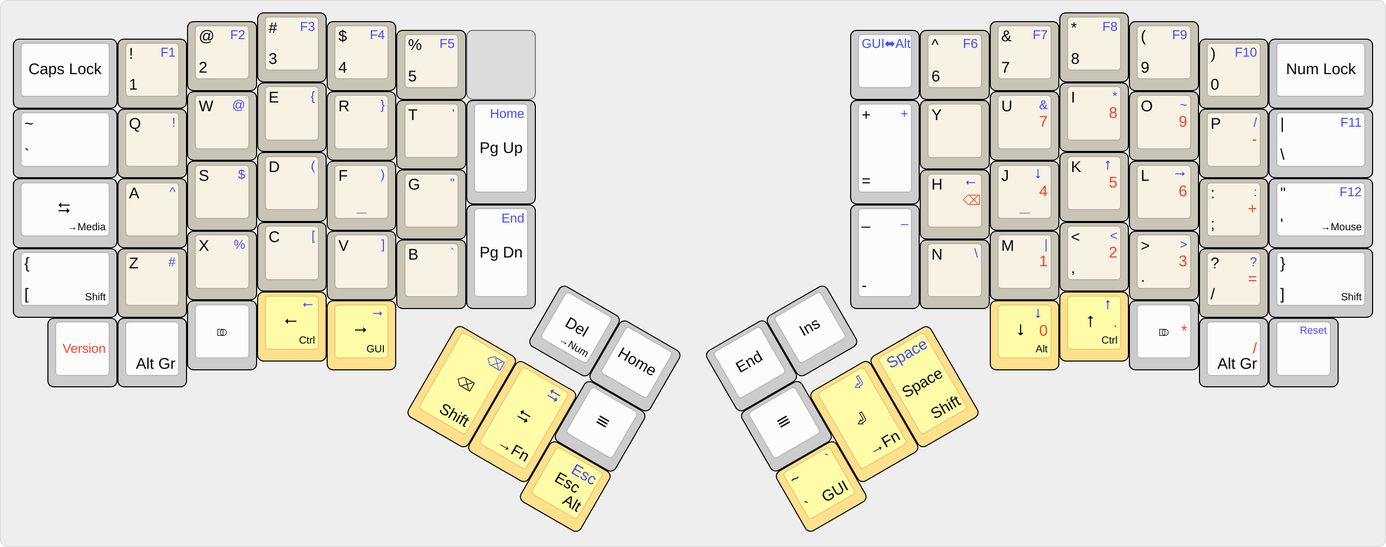
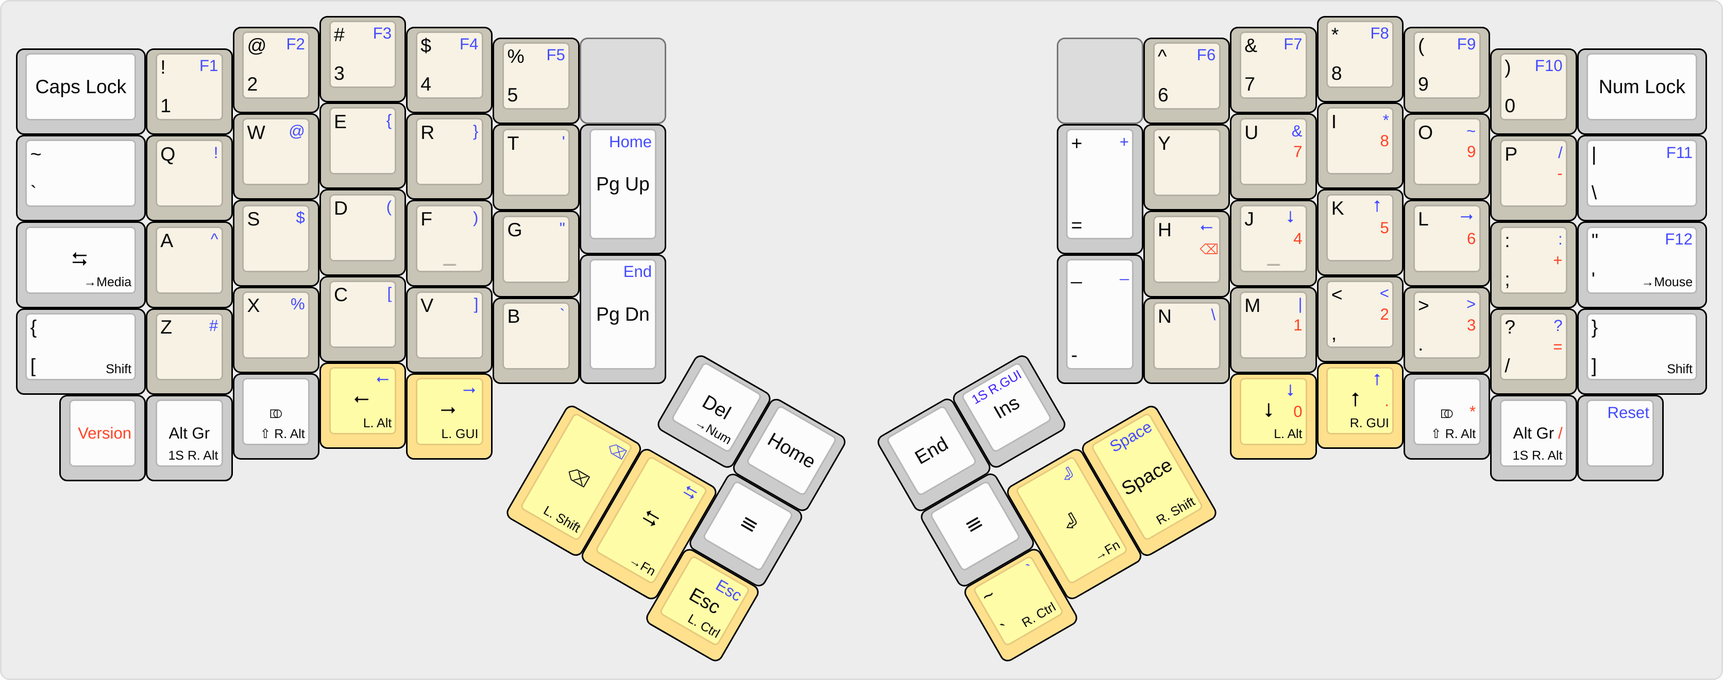
Address RGUI+Enter

diff --git a/keymaps/moonlander/shajra/keymap.c b/keymaps/moonlander/shajra/keymap.c
@@ -46,7 +46,7 @@ const uint16_t PROGMEM keymaps[][MATRIX_ROWS][MATRIX_COLS] =
     , RGB_VAD, KC_EXLM, KC_AT,   KC_LCBR, KC_RCBR, KC_QUOT, KC_HOME, /**/ KC_PLUS, _______, KC_AMPR, KC_ASTR, KC_TILD, KC_SLSH, KC_F11
     , RGB_HUI, KC_CIRC, KC_DLR,  KC_LPRN, KC_RPRN, KC_DQUO, KC_END,  /**/ KC_UNDS, KC_LEFT, KC_DOWN, KC_UP,   KC_RGHT, KC_COLN, KC_F12
     , RGB_HUD, KC_HASH, KC_PERC, KC_LBRC, KC_RBRC, KC_GRV,           /**/          KC_BSLS, KC_PIPE, KC_LT,   KC_GT,   KC_QUES, _______
-    , _______, _______, _______, KC_LEFT, KC_RGHT,          KC_DEL,  /**/ _______,          KC_DOWN, KC_UP,   _______, _______, QK_BOOT
+    , _______, _______, _______, KC_LEFT, KC_RGHT,          KC_DEL,  /**/ OSM(MOD_RGUI),    KC_DOWN, KC_UP,   _______, _______, QK_BOOT
     ,                                     KC_BSPC, KC_TAB,  KC_ESC,  /**/ KC_GRV,  KC_ENT,  KC_SPC
     )
 , [NUMPAD] = LAYOUT_moonlander

diff --git a/keymaps/ergodox_ez/shajra/keymap.c b/keymaps/ergodox_ez/shajra/keymap.c
@@ -81,7 +81,7 @@ const uint16_t PROGMEM keymaps[][MATRIX_ROWS][MATRIX_COLS] =
     ,          KC_LEFT, KC_DOWN, KC_UP,   KC_RGHT, KC_COLN, KC_F12
     , KC_UNDS, KC_BSLS, KC_PIPE, KC_LT,   KC_GT,   KC_QUES, _______
     ,                   KC_DOWN, KC_UP,   _______, _______, QK_BOOT
-    , _______, _______
+    , _______, OSM(MOD_RGUI)
     , _______
     , KC_GRV,  KC_ENT,  KC_SPC
     )

diff --git a/keymaps/moonlander/shajra/config.h b/keymaps/moonlander/shajra/config.h
@@ -1,5 +1,5 @@
 #define MOONLANDER_USER_LEDS
 #define ORYX_CONFIGURATOR
 #define PERMISSIVE_HOLD
-#define QUICK_TAP_TERM 120
+#define QUICK_TAP_TERM 0
 #define RGBLIGHT_SLEEP

diff --git a/keymaps/ergodox_ez/shajra/config.h b/keymaps/ergodox_ez/shajra/config.h
@@ -1,3 +1,3 @@
 #define ORYX_CONFIGURATOR
 #define PERMISSIVE_HOLD
-#define QUICK_TAP_TERM 120
+#define QUICK_TAP_TERM 0

diff --git a/doc/design.md b/doc/design.md
@@ -1,8 +1,8 @@
 - [Designing a keyboard mapping](#sec-1)
 - [Principles and assumptions](#principles_and_assumptions)
 - [The keymaps](#sec-3)
-  - [Model 01/100 "shajra" keymap](#sec-3-1)
-  - [Ergodox EZ "shajra" keymap](#sec-3-2)
+  - [Model 01/100 “shajra” keymap](#sec-3-1)
+  - [Ergodox EZ “shajra” keymap](#sec-3-2)
   - [Reading the keymap diagrams](#sec-3-3)
     - [Coloring](#sec-3-3-1)
     - [Modifiers](#sec-3-3-2)
@@ -14,20 +14,21 @@
   - [Working around a problem with Mod-Tap and Qukeys](#sec-5-4)
   - [Mapping modifiers](#sec-5-5)
   - [More on `Alt Gr` and `Compose`](#altgr_and_compose)
-  - [Mapping more non-modifiers](#sec-5-7)
-  - [Mapping the Function layer](#sec-5-8)
-  - [Media and Mouse layers](#sec-5-9)
+  - [A problem with `GUI` on Macs](#osm_right_gui)
+  - [Mapping remaining non-modifiers](#sec-5-8)
+  - [Mapping the Function layer](#sec-5-9)
+  - [Media and Mouse layers](#sec-5-10)
 
 
 # Designing a keyboard mapping<a id="sec-1"></a>
 
-This document discusses the rationale of the "shajra" keymap for the Ergodox EZ, Moonlander, and Model 01/100 keyboards.
+This document discusses the rationale of the “shajra” keymap for the Ergodox EZ, Moonlander, and Model 01/100 keyboards.
 
 Having a nice ergonomic split keyboard seems a waste, only to program it with a keymap full of ergonomic setbacks. The number of possible mappings can be overwhelming. We could just choose something, good or bad, and iterate on it as we discover improvements. This process can be tedious because we have to train through the inconvenience of muscle memory to assess how well a mapping works. We get used to a key being in a poor place. So, we must be diligent not to confuse familiarity with ergonomic improvement.
 
-To help deal with this problem, the "shajra" keymap is built upon a few guiding principles and constraints. Ideally, these principles and constraints would hone in on precisely one solution. Unfortunately, reality is not tidy, though the options narrow down some.
+To help deal with this problem, the “shajra” keymap is built upon a few guiding principles and constraints. Ideally, these principles and constraints would hone in on precisely one solution. Unfortunately, reality is not tidy, though the options narrow down some.
 
-Keyboard customization is personal, so it's common to end up with your own keymap. Maybe the "shajra" keymap can work for you, possibly with a few tweaks.
+Keyboard customization is personal, so it's common to end up with your own keymap. Maybe the “shajra” keymap can work for you, possibly with a few tweaks.
 
 # Principles and assumptions<a id="principles_and_assumptions"></a>
 
@@ -51,13 +52,13 @@ Additionally, there are a few physical assumptions that factor into some decisio
 
 # The keymaps<a id="sec-3"></a>
 
-For reference, below are diagrams of the keymaps for the Model 01/100 and Ergodox EZ.
+For reference, below are diagrams of the “shajra” keymaps for the Model 01/100 and Ergodox EZ.
 
-## Model 01/100 "shajra" keymap<a id="sec-3-1"></a>
+## Model 01/100 “shajra” keymap<a id="sec-3-1"></a>
 
 ![img](./model-100-shajra-layout.png)
 
-## Ergodox EZ "shajra" keymap<a id="sec-3-2"></a>
+## Ergodox EZ “shajra” keymap<a id="sec-3-2"></a>
 
 ![img](./ergodox-ez-shajra-layout.png)
 
@@ -75,13 +76,22 @@ Note the Moonlander keyboard is an almost identical layout to the EZ and not ill
 
 ### Modifiers<a id="sec-3-3-2"></a>
 
--   The lower-right corner label on some keys shows the modifier accessed by holding it (other labels reference keycodes accessed by tapping).
--   The “Shift,” “Ctrl,” and “GUI” labels represent “Left” or “Right” keycodes, respective to which keyboard half they are on.
--   For both halves, the keycode represented by the “Alt” label is for only the `Left Alt` keycode.
--   The following labels represent keycodes used for entering characters beyond a typical US/English keyboard:
+Various platforms have diverged in the names and purpose of their modifier keys. A useful simplification, the USB HID tables, force these divergences to converge with modern USB-based keyboards:
+
+| USB HID key | Non-Mac key | Mac key     |
+|----------- |----------- |----------- |
+| `GUI`       | `⊞ Windows` | `⌘ Command` |
+| `Alt`       | `⎇ Alt`     | `⌥ Option`  |
+| `Control`   | `^ Control` | `^ Control` |
+| `Shift`     | `⇧ Shift`   | `⇧ Shift`   |
+
+The keymaps use the USB HID terminology. On the images, the lower-right corner label on some keys shows the modifier accessed by holding it (other labels reference keycodes accessed by tapping).
+
+In addition to standard modifiers, there are a few extra supported by firmware:
+
 -   The “Alt Gr” label represents a [`Alt Graph` modifier](https://en.wikipedia.org/wiki/AltGr_key), which we emulate with the `Right Alt` keycode.
 -   The “⎄” label represents a [`Compose` key](https://en.wikipedia.org/wiki/Compose_key), which we emulate with `Shift + Right Alt`.
--   The Media and Mouse layers are not shown in these diagrams to avoid clutter.
+-   There are “media” and “mouse” layers that are not shown in these diagrams to avoid clutter.
 
 Note that we've given some special treatment to the right and left `Alt` keycodes. This is explained more [later](#altgr_and_compose).
 
@@ -101,7 +111,7 @@ To further reduce binding, the 2u keycaps of the thumb cluster can be replaced w
 
 If your Ergodox EZ shipped with DSA (unsculptured) keycaps, you may find you can conveniently press all the yellow keys in the keymap diagram with your thumbs.
 
-If your Ergodox shipped with DCS (sculptured) keycaps, you will likely find the four bottom row keys (mentioned earlier) sculptured too sharply for comfortable thumb presses. Replacing these keycaps is recommended to use the "shajra" keymap.
+If your Ergodox shipped with DCS (sculptured) keycaps, you will likely find the four bottom row keys (mentioned earlier) sculptured too sharply for comfortable thumb presses. Replacing these keycaps is recommended to use the “shajra” keymap.
 
 [Signature Plastics](https://pimpmykeyboard.com/key-cap-family-specs) is a popular place to get alternate keycaps. If you do get keycaps from a third party like Signature Plastics, consider the G20 keycaps, which work well for thumb presses because of their low profile and rounded edges.
 
@@ -135,9 +145,9 @@ Thus far, we've presumed that modifiers need to be oriented such that we can cho
 
 Unfortunately, One-Shot is incompatible with Mod-Tap/Qukeys, which we've reasoned above will help us get more keycodes closer to our thumb/palm home keys.
 
-This incompatibility introduces a design tension. Some would argue that chording increases the likelihood of repetitive stress injury. Traditional keyboards put a lot of the stress on pinky fingers by having them hold keys while stretching from their home position. A One-Shot approach removes the need to hold the keys but may not necessarily move the key to a better location. The pinky finger may still need to stretch for the key press.
+This incompatibility introduces a design tension. Some would argue that chording increases the likelihood of repetitive stress injury. Traditional keyboards put a lot of the stress on pinky fingers by having them hold keys while stretching from their home position. A One-Shot approach removes the need to hold the keys but may not necessarily move the key to a better location. The pinky finger may still need to stretch for the keypress.
 
-Instead, the "shajra" keymap uses Mod-Tap/Qukeys to reduce the need to hold and even stretch our pinkies to farther keys. It does this not only for modifiers (like `Shift` and `Ctrl`), but also common keycodes (like `Tab`, `Esc`, `Enter`, and `Backspace`). The key-sharing of Mod-Tap/Qukeys allows us to map all of these to our thumbs/palms. With One-Shot, without keycodes sharing keys, we will invariably have some of these commonly used keycodes spill into the outer keys stretched to by our pinkies. With Mod-Tap/Qukeys, we generally shouldn't find our pinkies having to reach beyond the beige keys in our diagrams.
+Instead, the “shajra” keymap uses Mod-Tap/Qukeys to reduce the need to hold and even stretch our pinkies to farther keys. It does this not only for modifiers (like `Shift` and `Ctrl`), but also common keycodes (like `Tab`, `Esc`, `Enter`, and `Backspace`). The key-sharing of Mod-Tap/Qukeys allows us to map all of these to our thumbs/palms. With One-Shot, without keycodes sharing keys, we will invariably have some of these commonly used keycodes spill into the outer keys stretched to by our pinkies. With Mod-Tap/Qukeys, we generally shouldn't find our pinkies having to reach beyond the beige keys in our diagrams.
 
 For these reasons, we'll mostly avoid One-Shot, and prefer Mod-Tap/Qukeys instead.
 
@@ -149,7 +159,7 @@ QMK has a feature where you can tap a Mod-Tap key quickly before holding it to h
 
 Fortunately, there's a workaround. We can use the Function layer to overlay on top of any keycode that can't repeat the same keycode for repeating. So, in our example, if we collocated `Space` and `Shift` in the same key with Mod-Tap/Qukey, but used our workaround, we could chord and hold `Function+Space` to get a repeating space. This workaround seems manageable for the few common keys we have collocated with modifiers using Mod-Tap/Qukeys.
 
-The "shajra" keymap uses this workaround, and you can see it used for the thumb keys in the keymap diagrams above.
+The “shajra” keymap uses this workaround, and you can see it used for the thumb keys in the keymap diagrams above.
 
 ## Mapping modifiers<a id="sec-5-5"></a>
 
@@ -168,19 +178,19 @@ The modifiers below have been ordered from most frequently used to least:
 
 Though the order above is subjective to a degree, the `Shift` and `Function` modifiers are more obviously used the most. We'll want these modifiers near our thumb home keys so that we stay in one position as much as possible when typing prose.
 
-Note that we'll want each modifier on both the left and right keyboard halves. We get a more comfortable reach with the fingers of one hand when using the thumb of the other hand for a modifier. And we want to be able to modify keys on either half with similar ease.
+Ideally, we want each modifier on both the left and right keyboard halves. We get a more comfortable reach with the fingers of one hand when using the thumb of the other hand for a modifier. And we want to be able to modify keys on either half with similar ease. We mostly get modifiers on both halves, which will be discussed more in a [later section](#osm_right_gui).
 
-Furthermore, we sometimes need two modifiers for chording and must use both hands. If the two modifiers we needed were on the same split, we'd be out of luck with only one thumb per hand.
+Modifiers on both left and right halves allow us to chord more modifier combinations. If the two modifiers we needed were on the same split, we'd be out of luck with only one thumb per hand.
 
-Three-modifier chording does happen, but we only support such chords where one of the three modifiers is a `Shift`. For this reason, we have `Shift` modifiers on both thumb keys as well as their traditional outer keys. Thumbs of each hand would press the other two modifiers, while one of the pinkies presses a `Shift`.
+Modifiers on both sides also allow occasional one-handed chording if our other hand is off the keyboard. To further support one-handed chording, we want the `Ctrl`, `Alt`, and `GUI` keys pressed by thumbs. Note that when pressing one of the yellow keys with our thumbs, all fingers can press a key. If we use a pinky finger for a modifier, other keys typically depressed by the pinky are less available for a one-handed chord. The same is true for any of our fingers. When we use our thumbs for modifiers, more chords are ergonomically available for one-handed chording in a home position.
 
-There are a few other chords not ergonomically supported. If we have two modifiers of `Alt`, `GUI`, or `Ctrl`, combined with a non-modifier of `Del`, `Space`, or `Enter`, all these are on thumb keys as laid out in the "shajra" keymap (and we only have two thumbs!). But these chords shouldn't be too common (despite including the famous `Ctrl+Alt+Del`). If they do arise, we can move one of our hands from home to press the modifiers we need with our fingers while pressing the non-modifier with the other hand.
+Three-modifier chording is sometimes required. For this reason, we have `Shift` modifiers on both thumb keys as well as their traditional outer keys. Thumbs of each hand would press the other two modifiers, while one of the pinkies presses a `Shift`.
 
-Having the same modifier on both sides also allows us an occasional one-handed chording if our other hand is off the keyboard. To further support one-handed chording, we want the `Ctrl`, `Alt`, and `GUI` keys pressed by thumbs. Note that when pressing one of the yellow keys with our thumbs, all fingers can press a key. If we use a pinky finger for a modifier, other keys normally depressed by the pinky are less available for a one-handed chord. The same is true for any of our fingers. When we use our thumbs for modifiers, more chords are ergonomically available for one-handed chording in a home position.
+There are a few other chords not ergonomically supported. If we have two modifiers of `Alt`, `GUI`, or `Ctrl`, combined with a non-modifier of `Del`, `Space`, or `Enter`, all these are on thumb keys as laid out in the “shajra” keymap (and we only have two thumbs!). But these chords shouldn't be too common (despite including the famous `Ctrl+Alt+Del`). If they do arise, we can move one of our hands from home to press the modifiers we need with our fingers while pressing the non-modifier with the other hand.
 
-In the "shajra" keymap, you'll notice that the modifiers line the bottom keys pressed by thumbs/keys and wrap around to some modifiers accessed by pinky fingers. The Mouse and Media layers are designed to be used while chording with a pinky modifier. Fortunately, we don't access these layers too often, so our pinky fingers shouldn't get too tired.
+In the “shajra” keymap, you'll notice that the modifiers line the bottom keys pressed by thumbs/keys and wrap around to some modifiers accessed by pinky fingers. The Mouse and Media layers are designed to be used while chording with a pinky modifier. Fortunately, we don't access these layers too often, so our pinky fingers shouldn't get too tired.
 
-For the most part the modifiers are laid out symmetrically, with one exception. One half swaps the `Alt` and `GUI` locations of the other half. We do this because the inner-most thumb keys are a little bit of a stretch for holding a modifier key. So we try to balance the load across two modifiers.
+Most of the modifiers are laid out symmetrically, with one exception. One half swaps the `Alt` and `GUI` locations of the other half. This swap keeps more modifier combinations closer to home positions.
 
 ## More on `Alt Gr` and `Compose`<a id="altgr_and_compose"></a>
 
@@ -188,17 +198,29 @@ Historically, some keyboards targetting an international audience provide a [`Al
 
 On Macs, both left and right `Option` (`⌥`) keys help enter alternate symbols similarly to an `Alt Gr` key. And keyboards that emit the `Alt` keycodes are interpreted by Macs as an `Option` keycodes.
 
-On GNU/Linux and Windows, the `Right Alt` keycode can be configured to serve as an `Alt Gr` key, leaving the `Left Alt` available for user/application/OS keybinding.
+On GNU/Linux and Windows, the `Right Alt` keycode can be configured to serve as an `Alt Gr` key, leaving the `Left Alt` available for user/application/OS keybinding. Similarly, some terminal emulators on Macs are often configured to have the `Left Option` emit escaped character codes, more like a traditional `Alt` key than an `Alt Gr` one.
 
-Under the assumption that the `Right Alt` modifier may be used (as an `Alt Gr` key) differently from the `Left Alt` modifier, the "shajra" keymap puts each on both the right and left sides. This way, we can retain the benefits of having the same modifier on both sides as we have for all our other modifiers.
+Under the assumption that the `Right Alt` modifier may be used (as an `Alt Gr` key) differently from the `Left Alt` modifier, the “shajra” keymap puts each on both the right and left sides. This way, we can retain the benefits of having the same modifier on both sides as we have for all our other modifiers.
 
-The "shajra" keymap makes this `Alt Gr` keys a One-Shot Modifier (OSM) to make it easier to use. Note that due to limited space on the Model 01/100, the `Right Alt` (`Alt Gr`) keycode is placed in the Function layer. Hopefully, as an OSM, this modifier will still be convenient enough despite being in a Function layer.
+The “shajra” keymap makes this `Alt Gr` keys a One-Shot Modifier (OSM) to make it easier to use. Note that due to limited space on the Model 01/100, the `Right Alt` (`Alt Gr`) keycode is placed in the Function layer. Hopefully, as an OSM, this modifier will still be convenient enough despite being in a Function layer.
 
 Note that on GNU/Linux, `Shift+Right Alt` is often configured to be a [`Compose` (`⎄`) key](https://en.wikipedia.org/wiki/Compose_key), which serves a similar function to an `Alt Gr` key. The significant difference is that `Compose` keys are one-shot (tapped, not held) by nature and, therefore, not a traditional modifier.
 
-Because they are similar in function, the `Alt Gr` and `Compose` keys are placed adjacent to one another in all "shajra" keymaps.
+Because they are similar in function, the `Alt Gr` and `Compose` keys are placed adjacent to one another in all “shajra” keymaps.
 
-## Mapping more non-modifiers<a id="sec-5-7"></a>
+## A problem with `GUI` on Macs<a id="osm_right_gui"></a>
+
+On Linux systems, the `GUI` (`Windows` key) modifier isn't used by the operating system of applications, leaving it broadly available for user shortcuts. However, this isn't the case for Mac OS and various Mac applications, which assign shortcuts liberally to the `Command` key.
+
+The `Option` key on the Mac isn't available for user shortcuts either because applications use it as well, not to mention the complexity we already have with `Compose` and `Alt Gr` emulation.
+
+To avoid conflicts, we're forced to use the left `GUI` key for user shortcuts, which leaves the right `GUI` key for standard Mac shortcuts. Though we have a `GUI` key on both halves, they aren't the same in practice. Consequently, we lose some ergonomic benefits.
+
+This loss is apparent if we need both a `Left GUI + Enter` shortcut and a `Right GUI + Enter` shortcut. We can easily hit `Enter` with the `Left GUI` key depressed by the other hand. But `Right GUI` and `Enter` are both thumb-depressed keys on the right-hand split. We'd have to lift our hands from home position.
+
+We could shuffle shortcuts to avoid this particular conflict. But the “shajra” keymap offers a more general solution by providing a One-Shot Modifer (OSM) of the right `GUI` key on the function layer. It requires another keypress, but our hands don't need to leave home position.
+
+## Mapping remaining non-modifiers<a id="sec-5-8"></a>
 
 Because we've decided to support chording with Mod-Tap/Qukeys, we want our Base layer to have all the keys commonly used for applications keybinds. Otherwise, when chording, we also need the `Function` modifier. Of the keys on a full 104-key keyboard, we may not have room for the function keys, the numpad, and some less used keys like `Print Screen`, `Scroll Lock`, and `Pause`. But we should have the rest on our base layer.
 
@@ -223,13 +245,13 @@ The following non-modifier keycodes below have been ordered from the most freque
 
 This ordering is subjective to some degree and undoubtedly context-sensitive. However, `Space`, `Backspace`, and `Enter` are clearly used more than the rest.
 
-To increase ergonomics the "shajra" keymap maps the keycodes above in order of usefulness, first to good thumb keys, then good index finger keys, and lastly, pinky keys. There is one notable exception, though. The single quote `'` key in a QWERTY layout has a history of placement next to the semicolon `;` key. And for many touch typers, this is deeply ingrained in memory. The pinky does not stretch far to reach this key, so we'll continue to place `'` there. As an alternative, the single quote is also in our Function layer.
+To increase ergonomics the “shajra” keymap maps the keycodes above in order of usefulness, first to good thumb keys, then good index finger keys, and lastly, pinky keys. There is one notable exception, though. The single quote `'` key in a QWERTY layout has a history of placement next to the semicolon `;` key. And for many touch typers, this is deeply ingrained in memory. The pinky does not stretch far to reach this key, so we'll continue to place `'` there. As an alternative, the single quote is also in our Function layer.
 
 Also, we've tried to keep naturally paired keys either adjacent or symmetrically balanced across the two keyboard halves.
 
-## Mapping the Function layer<a id="sec-5-8"></a>
+## Mapping the Function layer<a id="sec-5-9"></a>
 
-There are a few ways to lay out keycodes in the Function layer. Here are some reasons for how the keycodes on the Function layer are mapped in the "shajra" keymap:
+There are a few ways to lay out keycodes in the Function layer. Here are some reasons for how the keycodes on the Function layer are mapped in the “shajra” keymap:
 
 | Keycode                    | Notes on placement                                              |
 |-------------------------- |--------------------------------------------------------------- |
@@ -245,7 +267,7 @@ There are a few ways to lay out keycodes in the Function layer. Here are some re
 
 Regarding the last item in this table, some keys already exist from our Base layer with shifting, but it's nice to have all our symbols on one layer, so we don't have to toggle between switching between shifting the Base layer and toggling the Function layer (for example, this occurs with programming operators such as `<*>`, and `<$>`).
 
-## Media and Mouse layers<a id="sec-5-9"></a>
+## Media and Mouse layers<a id="sec-5-10"></a>
 
 This project doesn't provide diagrams of the Media or Mouse layers, but hopefully you can follow the code for these layers in the respective code for the [Ergodox EZ](https://github.com/shajra/shajra-keyboards/blob/main/keymaps/ergodox_ez/shajra/keymap.c#L102-L142), [Moonlander](https://github.com/shajra/shajra-keyboards/blob/main/keymaps/moonlander/shajra/keymap.c#L55-L70), [Model 01](https://github.com/shajra/shajra-keyboards/blob/main/keymaps/model_01/shajra/Model01.ino#L113-L144), and [Model 100](https://github.com/shajra/shajra-keyboards/blob/main/keymaps/model_100/shajra/Model100.ino#L113-L144).
 

diff --git a/README.md b/README.md
@@ -178,8 +178,8 @@ nix run github:shajra/shajra-keyboards#flash-ergodoxez
     Flashing ZSA Technology Lab's Ergodox EZ (custom "shajra" keymap)
     =================================================================
     
-    FLASH SOURCE: /nix/store/n2wljqbjm18dd67h09azw363v038yjm8-qmk-builtin-shajra-src
-    FLASH BINARY: /nix/store/4llg9v1x0mbbcas67xl697ga1xlbifwf-ergodoxez-builtin-shajra.hex
+    FLASH SOURCE: /nix/store/ngn7ywly35dz439yr2jkiy7824kix4d0-qmk-builtin-shajra-src
+    FLASH BINARY: /nix/store/mrkig8c5jkhgchh3l3bsl8wj17jz77n7-ergodoxez-builtin-shajra.hex
     
     ⠋ Press the reset button of your keyboard
 
@@ -240,27 +240,27 @@ If you want to check that everything builds before flashing your keyboard, you c
 tree $(nix build --no-link --print-out-paths) 2>/dev/null
 ```
 
-    /nix/store/r61qgy7k70kglbrszp6vk162i6rlkv04-shajra-keyboards-ci
-    ├── build-ergodoxez-builtin-shajra-flash -> /nix/store/h5pnsghc4nf7wsd9bk964vicidwzljyn-ergodoxez-builtin-shajra-flash
-    ├── build-ergodoxez-builtin-shajra-hex -> /nix/store/4llg9v1x0mbbcas67xl697ga1xlbifwf-ergodoxez-builtin-shajra.hex
+    /nix/store/zjfinbmavajq6xh492zdprhkhnfj4yyw-shajra-keyboards-ci
+    ├── build-ergodoxez-builtin-shajra-flash -> /nix/store/15knkvn4hkix0vn1dsyk9ffzqnkl32nk-ergodoxez-builtin-shajra-flash
+    ├── build-ergodoxez-builtin-shajra-hex -> /nix/store/mrkig8c5jkhgchh3l3bsl8wj17jz77n7-ergodoxez-builtin-shajra.hex
     ├── build-ergodoxez-factory-flash -> /nix/store/kknpgd1japddjn8rl06n91x42ly7q4i8-ergodoxez-factory-flash
     ├── build-ergodoxez-factory-hex -> /nix/store/cyp9izs14157idkyrbp6j52ym98j6h9h-ergodoxez-factory.hex
-    ├── build-model01-builtin-shajra-flash -> /nix/store/k7x60sy085k1w4bjw5zamfq8h5m3qxqr-model01-builtin-shajra-flash
-    ├── build-model01-builtin-shajra-hex -> /nix/store/cnd04xg9s96y9wmnzkd6ng6j1akzbyxm-model01-builtin-shajra-hex
+    ├── build-model01-builtin-shajra-flash -> /nix/store/835qi2zb9m0dala6x7gmkpmxlmgd97xx-model01-builtin-shajra-flash
+    ├── build-model01-builtin-shajra-hex -> /nix/store/416x1s5v5pdki043nhlr8jqf0waf8j0d-model01-builtin-shajra-hex
     ├── build-model01-factory-flash -> /nix/store/r7fcyzxqix123jagi9lvyzsvlg5qilr5-model01-factory-flash
     ├── build-model01-factory-hex -> /nix/store/gwxx9i59daqj1gq06biikvsyqv4a05rb-model01-factory-hex
-    ├── build-model100-builtin-shajra-flash -> /nix/store/qfajjki3r6wvyvvkc5m0y184d6idl1kz-model100-builtin-shajra-flash
-    ├── build-model100-builtin-shajra-hex -> /nix/store/bgmv6h58wr0barglvkklmmqkbpm379x2-model100-builtin-shajra-hex
+    ├── build-model100-builtin-shajra-flash -> /nix/store/0jp1x1zmz00wkwyi7q7jxcvz7k9pwh3q-model100-builtin-shajra-flash
+    ├── build-model100-builtin-shajra-hex -> /nix/store/my83qz6czp7rkvg82q091cdkk95dm1v4-model100-builtin-shajra-hex
     ├── build-model100-factory-flash -> /nix/store/lqq6jq9xyjb1sgnl0yjq9a1q6vlw6z0d-model100-factory-flash
     ├── build-model100-factory-hex -> /nix/store/a3197a8k04yzisrcxrszs6d7653krrp2-model100-factory-hex
-    ├── build-moonlander-builtin-shajra-flash -> /nix/store/6djjs43qqc563w4dikqkx0fkz73j4j31-moonlander-builtin-shajra-flash
-    ├── build-moonlander-builtin-shajra-hex -> /nix/store/w5nn73v48kh8r607lnqyc9b1vagrx8vh-moonlander-builtin-shajra.bin
+    ├── build-moonlander-builtin-shajra-flash -> /nix/store/z19vx9vqz17lw69sg27p521yk31j1bmf-moonlander-builtin-shajra-flash
+    ├── build-moonlander-builtin-shajra-hex -> /nix/store/hrajvgijrpk8zk5rs08l80ds2z67vdwz-moonlander-builtin-shajra.bin
     ├── build-moonlander-factory-flash -> /nix/store/z7bg73d94z645s2788vm6hw6hqc2400s-moonlander-factory-flash
     ├── build-moonlander-factory-hex -> /nix/store/r5d6hfhfg7ycpsag0l83mldmpv632rxi-moonlander-factory.bin
-    ├── flash-ergodoxez -> /nix/store/y4fcgpjrjavp8ybsx2j0z0abyxivqpqy-flash-ergodoxez
-    ├── flash-model01 -> /nix/store/gm6zqc43mrvqh2sgz8m5gl7shjnmlg1i-flash-model01
-    ├── flash-model100 -> /nix/store/53v4b6qwjs6l5ij3yr6zk9nb412m8wjp-flash-model100
-    ├── flash-moonlander -> /nix/store/4fhaj2irzrvghs8hc7mqpx6l19q9j7sd-flash-moonlander
+    ├── flash-ergodoxez -> /nix/store/hc815q8svfsnfc9rizjhqqwz0fssr2cy-flash-ergodoxez
+    ├── flash-model01 -> /nix/store/xk8wp76hryfqc6gzrwkz7h2mj5yqx1hm-flash-model01
+    ├── flash-model100 -> /nix/store/1pkqq2hal1zzgmimmxvm645z2n0smvkx-flash-model100
+    ├── flash-moonlander -> /nix/store/qscisa57cqmcjaxgahdk5xni0074rzm0-flash-moonlander
     └── licenses -> /nix/store/65nmw7i5vyfslc4dkqywc0miwffhv5y9-shajra-keyboards-licenses
     
     18 directories, 4 files

diff --git a/support/images.md b/support/images.md
@@ -1,0 +1,17 @@
+I made my keyboard layout images with [a service](http://www.keyboard-layout-editor.com) that has been un/under-maintained for some years, but keeps on functioning. The image-export feature of this website doesn't meet my satisfaction, so I have the following process, which I haven't automated:
+
+1.  Take a screenshot of the images with my browser zoomed in at 150%.
+2.  From the GNU Image Manipulation Program use `Image → Crop to Content`.
+3.  Reduce the filesize with the following ImageMagik command.
+
+```sh
+convert image.oversized.png \
+    -colors 256 \
+    -strip \
+    -quality 95 \
+    -define png:compression-level=9 \
+    -define png:compression-strategy=1 \
+    image.compressed.png
+```
+
+I haven't had the desire to automate this because the process is so tenuous and I have made changes to my keymaps so infrequently. This document is enough for me to retrace my steps.
